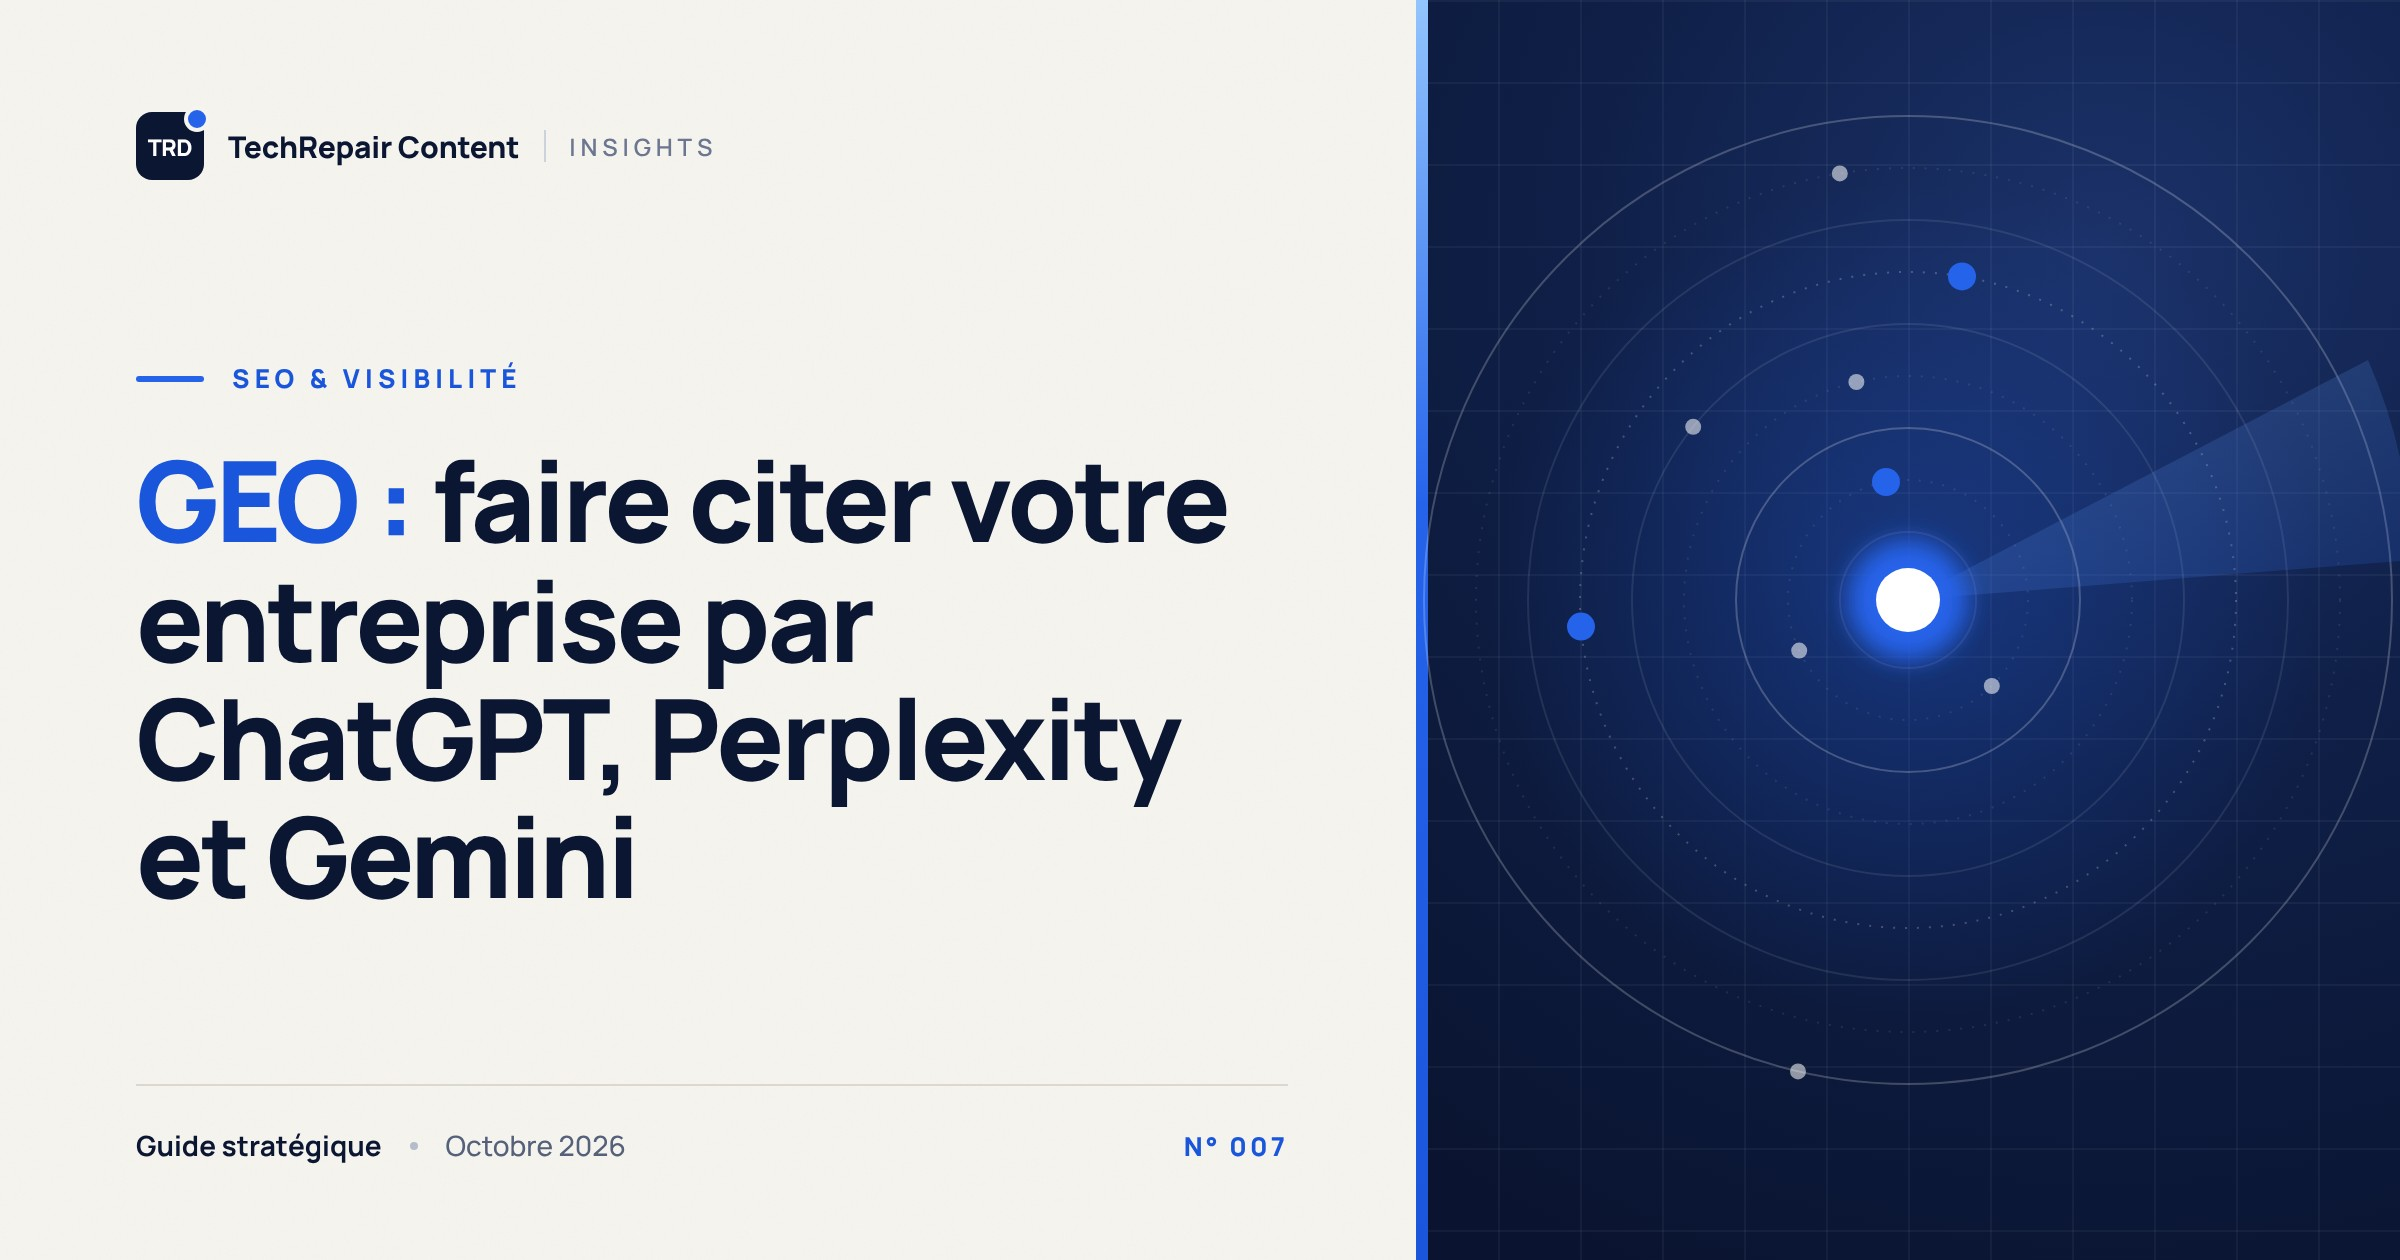
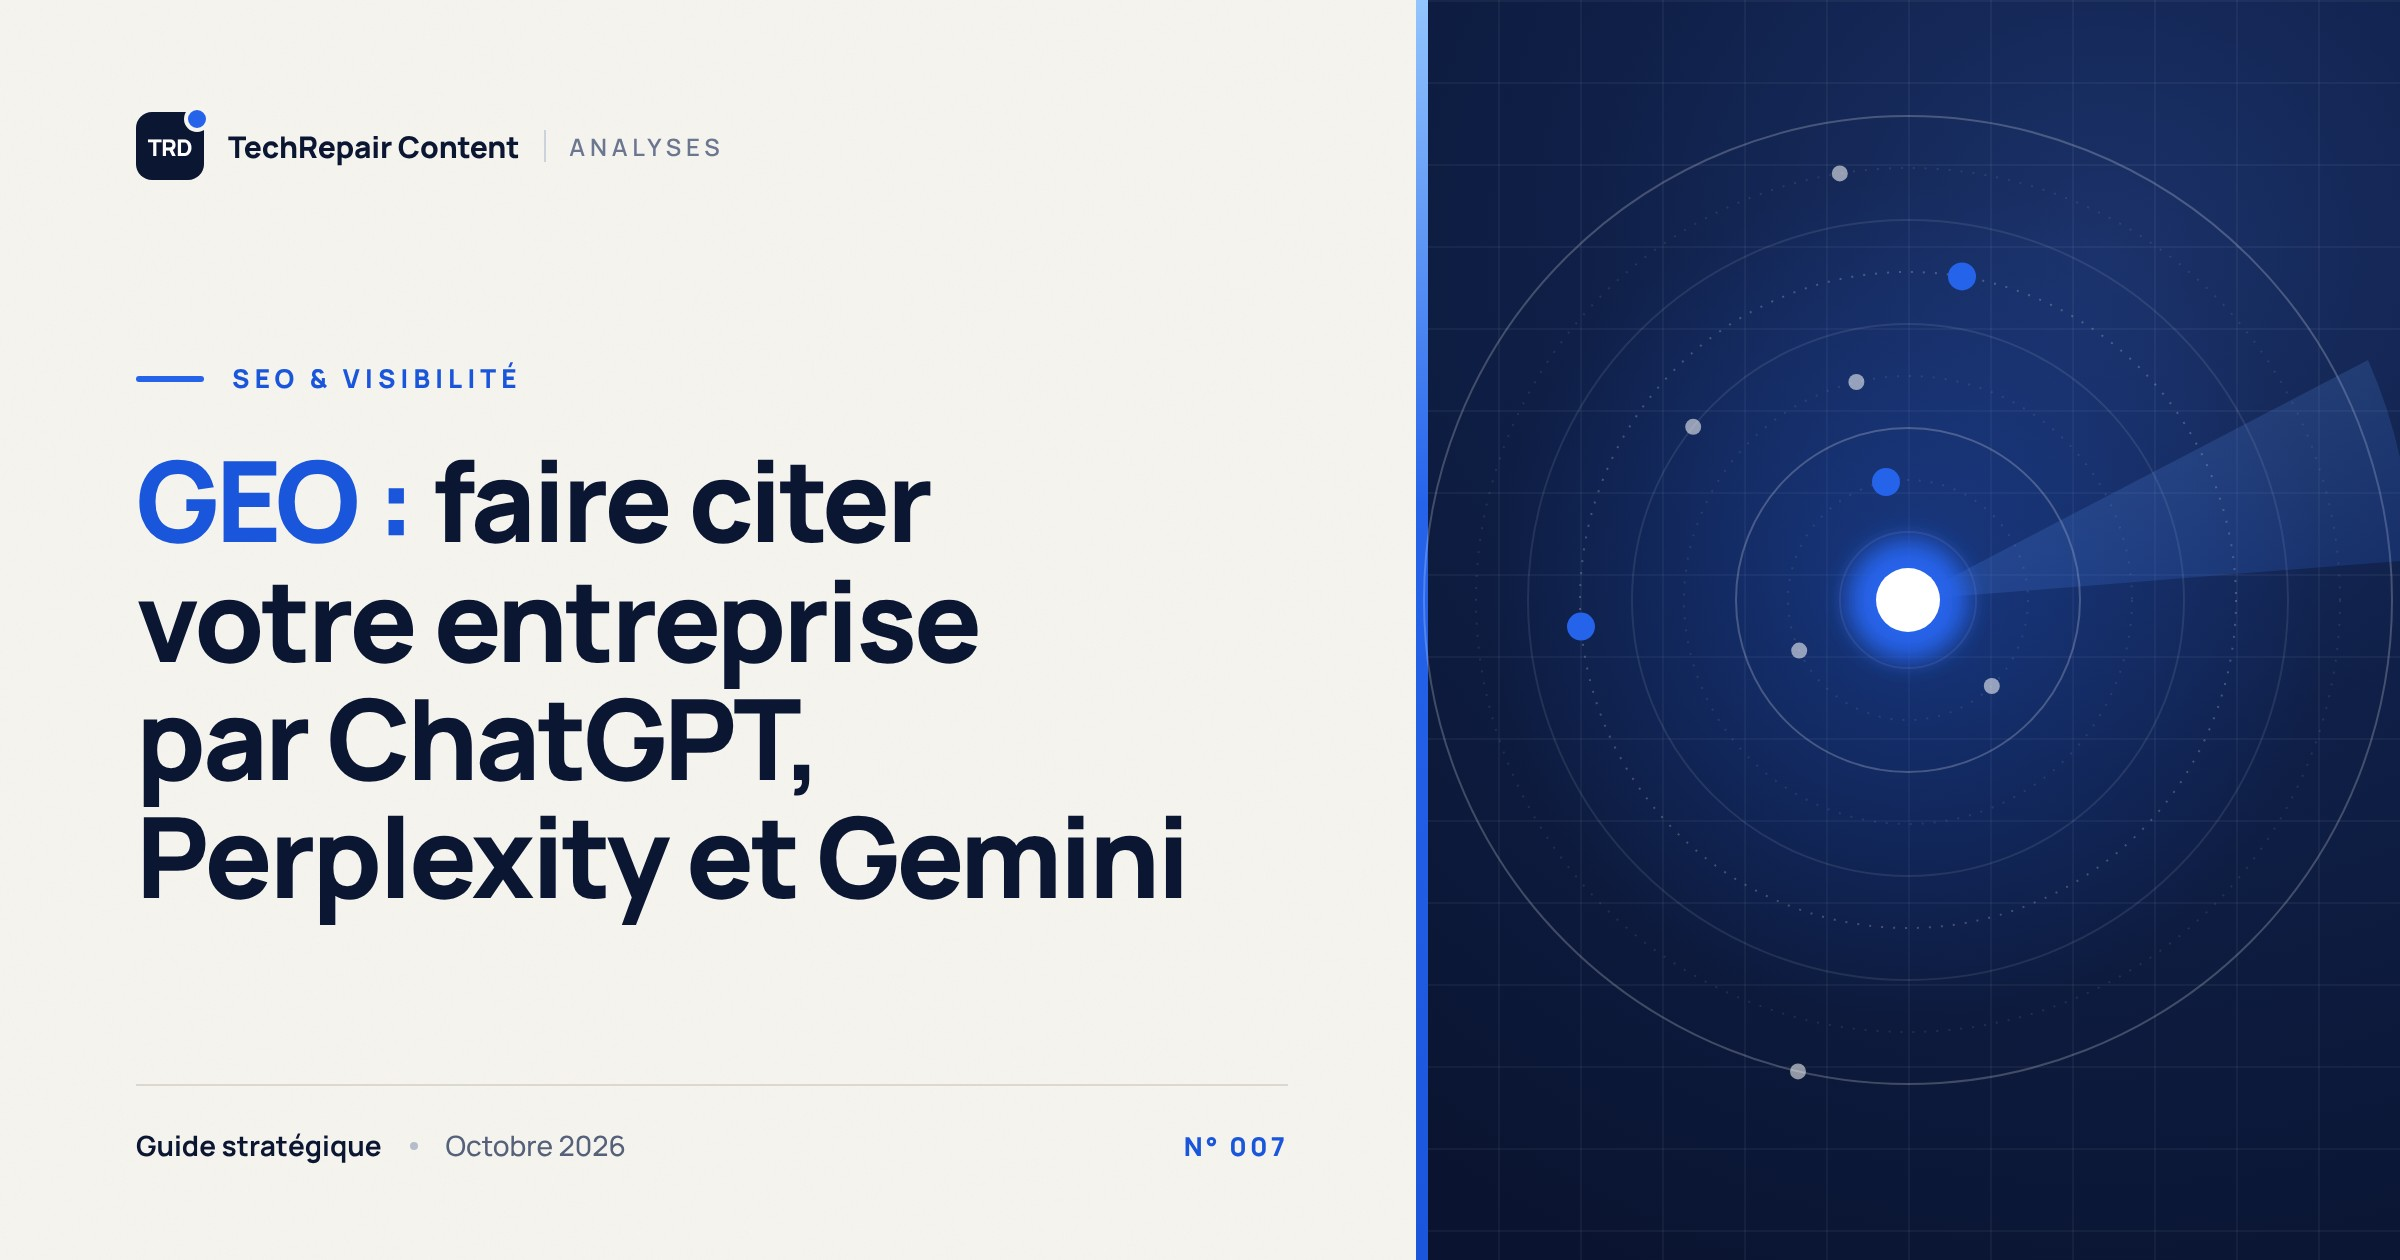
Couvertures : « Analyses » au lieu de « Insights » (#7)
Claude-Session: https://claude.ai/code/session_01HQs5be2KDUgEJapftMWrMs

Changed region(s): [[0.0625, 0.4643, 0.5, 0.7429], [0.375, 0.3714, 0.5312, 0.4333], [0.2188, 0.0929, 0.3125, 0.1238]]

diff --git a/_outils/couverture.js b/_outils/couverture.js
@@ -180,7 +180,7 @@ body.s-papier:after{content:"";position:absolute;left:0;right:0;top:0;height:8px
 </style></head><body class="s-${STYLE}">
 <svg class="grain" width="1200" height="630"><filter id="n"><feTurbulence type="fractalNoise" baseFrequency=".9" numOctaves="2" stitchTiles="stitch"/><feColorMatrix values="0 0 0 0 .5  0 0 0 0 .45  0 0 0 0 .4  0 0 0 .09 0"/></filter><rect width="100%" height="100%" filter="url(#n)"/></svg>
 <div class="gauche">
-  <div class="marque"><div class="logo">TRD</div><div class="nom">TechRepair Content</div><div class="sep"></div><div class="coll">Insights</div></div>
+  <div class="marque"><div class="logo">TRD</div><div class="nom">TechRepair Content</div><div class="sep"></div><div class="coll">Analyses</div></div>
   <div class="kicker"><i></i>${esc(LIBELLES[cat] || cat)}</div>
   <h1 id="t">${esc(titre).replace(/^([^:]+:)/, '<em>$1</em>')}</h1>
   <div class="pied"><b>${esc(surTitre)}</b><span class="pt"></span><span>${dateTxt}</span>${numero ? `<span class="num">N° ${String(numero).padStart(3, '0')}</span>` : ''}</div>
